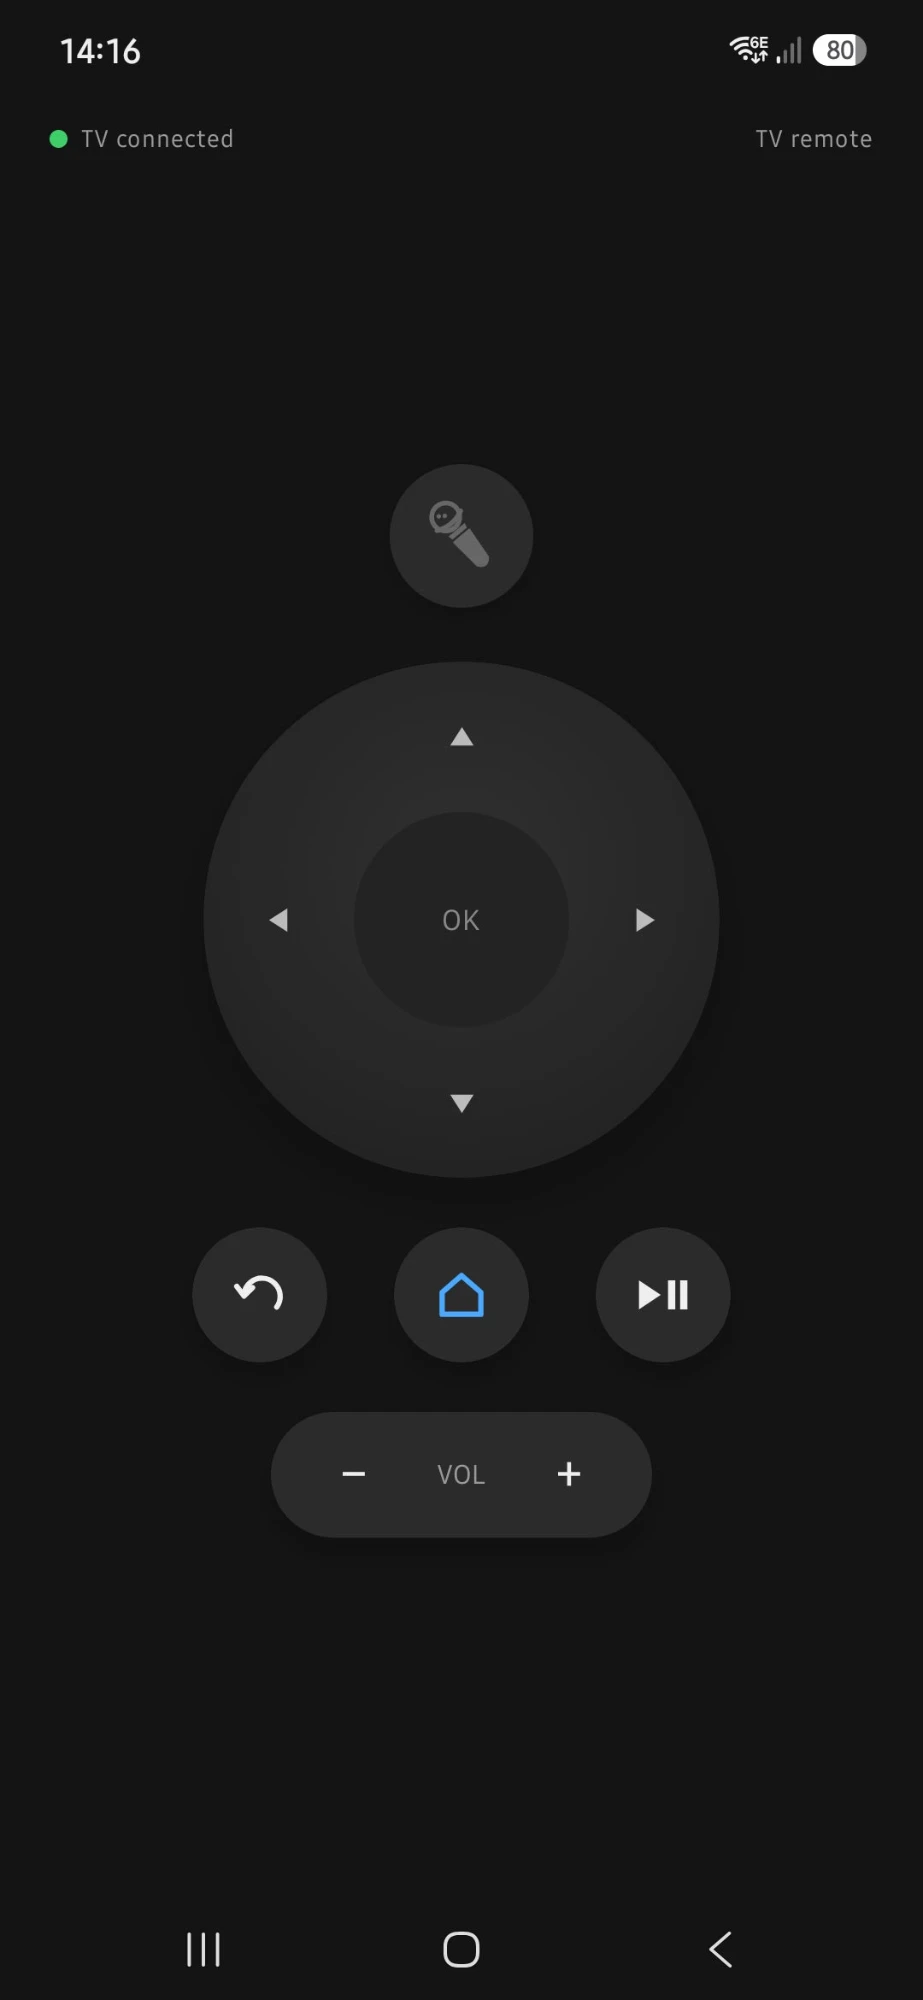
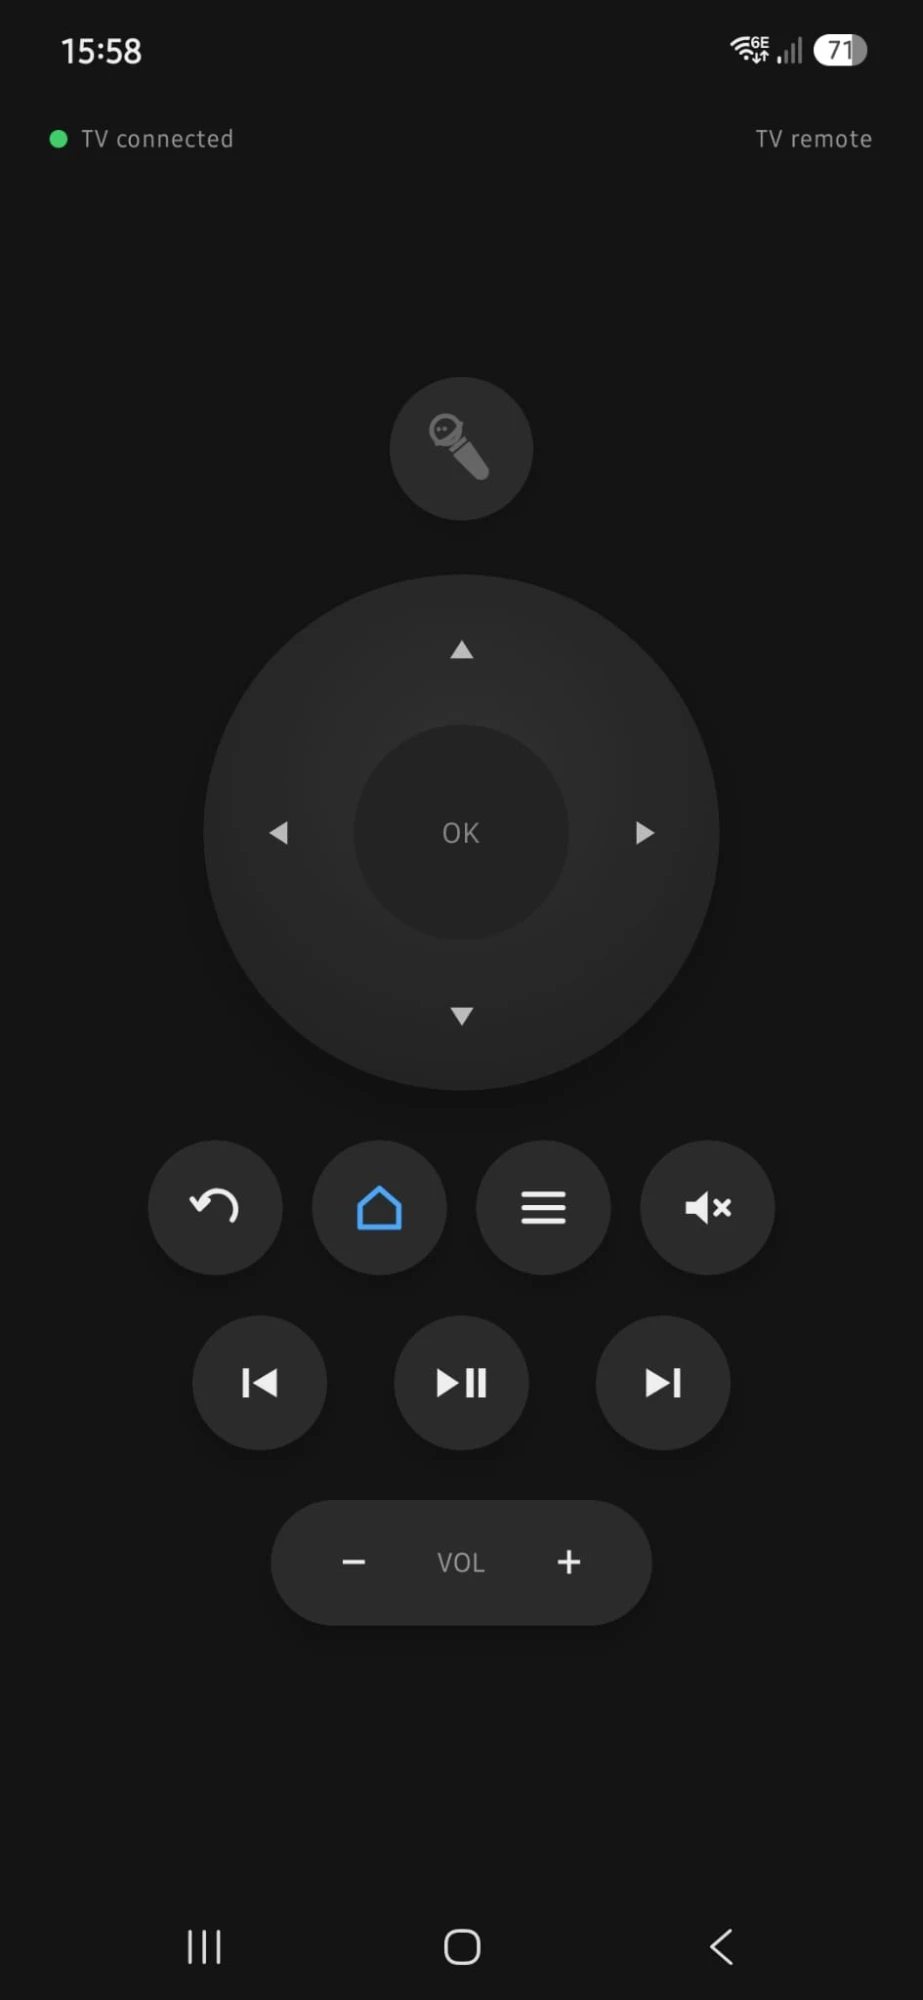
README: the phone remote's new keys and the newer settings
The phone remote screenshot shows its menu, mute, previous and next
keys, and the README lists them. The Rii's table gains the 3-lines key
(the menu of the item in focus), Search (frees the held pointer) and
the forward and backward keys; Back closes Prime Video's player.

The settings table adds MenuKeyVk, ParkPointer, AirMouseDevice,
PointerKeyVk and FrontAtStart, and the per-app NextButton,
PlayerEscape and FocusAfterPlayer. The volume boost covers Disney+,
Netflix and Prime Video, and the status says Netflix and Prime Video
are tested signed in on a development PC but not yet at the TV.

diff --git a/README.md b/README.md
@@ -9,15 +9,16 @@ The project started because the TV's own apps were slow to open and slow to resp
 ## What it does
 
 - **A home screen** in the style of [custom-tv](https://github.com/berteotti/custom-tv): the date, a greeting, the weather, rotating Windows Spotlight photos, and one tile per app.
-- **The apps inside the launcher's own window.** Each runs in its own WebView2 view, with its own sign-in. YouTube shows its TV interface; Disney+, Channel 4's website, Prime Video and Plex are websites in which the launcher moves focus on the remote's arrows, one item at a time. Netflix, Prime Video and Plex are in the configuration but only lightly tested.
-- **Per-app fixes in the configuration,** for example hiding a page element the remote cannot reach (Prime Video's cookie notice).
+- **The apps inside the launcher's own window.** Each runs in its own WebView2 view, with its own sign-in. YouTube shows its TV interface; Disney+, Channel 4's website, Prime Video and Plex are websites in which the launcher moves focus on the remote's arrows, one item at a time. Netflix and Prime Video are newer and not yet checked at the TV; Plex is only lightly tested.
+- **Per-app fixes in the configuration,** for example hiding a page element the remote cannot reach (Prime Video's cookie notice), or pressing a player's own Next Episode button for the remote's next key.
 - **The remote's Home button always returns home.** Leaving an app pauses it through the app's own player, and coming back finds it paused where it was.
-- **Back** walks back through Disney+'s pages and then goes home; inside YouTube it stays in YouTube.
+- **Back** walks back through Disney+'s pages and then goes home; inside YouTube it stays in YouTube; in Prime Video it closes the player and lands on the title's Resume button.
+- **The remote's menu key** opens the menu of the item in focus, such as Prime Video's hover card, and closes it again.
 - **An Apps screen** (the first button in the top row) to put the home row in the order you like, hide an app, or choose between an app's versions (Channel 4 comes as a TV app and as its website, each with its own sign-in). The choices are kept in `%LOCALAPPDATA%\TvLauncher\state.json`.
-- **A Disney+ volume boost** toggled from the home screen, because Disney+ plays much quieter than YouTube.
+- **A volume boost** toggled from the home screen, for the apps that play much quieter than YouTube (Disney+, Netflix and Prime Video).
 - **A glass weather card** (Open-Meteo, no API key, no place name), with a moon drawn by its real phase, and a forecast screen with UV, wind, sun, rainfall, visibility and humidity. The place is picked on screen with the remote, or comes from Windows location.
 - **A phone remote:** an Android app with the same keys as the physical remote, and a microphone for YouTube's voice search.
-- **Windows stays out of sight:** the app tiles wait until Windows HDR is on, the remote's Search and menu keys are swallowed, and restart and shut down ask first.
+- **Windows stays out of sight:** the app tiles wait until Windows HDR is on, the remote's Search and menu keys never reach Windows while the launcher is in front, and restart and shut down ask first.
 
 ## How it works
 
@@ -29,26 +30,28 @@ To pause an app, the launcher reads whether its video is playing and, if so, pre
 
 ### The physical remote
 
-The family's remote is a Rii i25: a 2.4 GHz radio remote with a USB dongle, so it needs no line of sight and Windows sees it as a keyboard. It is used with its air mouse off; with the air mouse on, OK becomes a mouse click and Back a right click.
+The family's remote is a Rii i25: a 2.4 GHz radio remote with a USB dongle, so it needs no line of sight and Windows sees it as a keyboard. It is meant to be used with its air mouse off; with the air mouse on, OK becomes a mouse click and Back a right click. Because the air mouse can come back on by itself, the launcher can hold the pointer on a small spot in the screen's corner while the air mouse moves and treat its clicks as OK and Back (`ParkPointer` with `AirMouseDevice`).
 
 | Button | What the PC receives | What the launcher does |
 |---|---|---|
 | D-pad, OK | The arrow keys, Enter | Moves focus and picks, on the home screen and in the apps |
 | Home | Browser Home (virtual-key 172) | Pauses the app in front and returns to the home screen, from anywhere |
-| Back | Browser Back (166) | Closes an overlay on the home screen; walks back through Disney+'s pages, then goes home; stays inside YouTube |
+| Back | Browser Back (166) | Closes an overlay on the home screen; walks back through Disney+'s pages, then goes home; stays inside YouTube; closes Prime Video's player |
+| The 3-lines key | The menu key (93) | In an app, opens and closes the menu of the item in focus (Prime Video's hover card); kept from Windows on the home screen |
+| Search | Browser Search (170) | Frees the held pointer when a page needs it, and holds it again on the next press or Home; kept from Windows, so its Start menu never opens |
+| Forward, backward | Next and previous track (176, 177) | Left to the app in front: the next and previous video in YouTube; next presses Next Episode in Prime Video |
 | Volume, mute, play/pause | The media keys | Left to Windows and the app in front |
-| Search, the menu key | Browser Search (170), the menu key (93) | Swallowed while the launcher is in front, so Windows' Start menu never opens |
 | Power, Source | Nothing | They are the remote's IR-learnable keys, for the TV and the sound bar |
 
-Windows marks Home, Back and the media keys as injected input; the launcher's low-level hook acts on them anyway. The codes are settings (`HomeKeyVk`, `BackKeyVk`, `SwallowKeyVks`), so another remote can be used by changing `launcher.json`. To find a remote's codes, start the launcher with `--keytest`.
+Windows marks Home, Back and the media keys as injected input; the launcher's low-level hook acts on them anyway. The codes are settings (`HomeKeyVk`, `BackKeyVk`, `MenuKeyVk`, `PointerKeyVk`, `SwallowKeyVks`), so another remote can be used by changing `launcher.json`. To find a remote's codes, start the launcher with `--keytest`.
 
 ### The phone remote
 
 `remote/android` is an Android app (Kotlin and Jetpack Compose, Android 8.0 or later) that turns a phone into a remote for the launcher. There is no iPhone app.
 
-<img src="images/phone-remote.webp" width="280" alt="The phone remote: the status line &quot;TV connected&quot; at the top, the microphone button, a round D-pad with OK in the middle, Back, Home and play/pause below it, and a volume bar at the bottom">
+<img src="images/phone-remote.webp" width="280" alt="The phone remote: the status line &quot;TV connected&quot; at the top, the microphone button, a round D-pad with OK in the middle, a row of Back, Home, menu and mute below it, then previous, play/pause and next, and a volume bar at the bottom">
 
-- **Its keys are the physical remote's, nothing more:** the D-pad and OK, Back, Home, play/pause, and volume down and up. Holding an arrow or a volume key repeats it, after 400 ms and then every 120 ms. The phone gives a short buzz for each press that reached the launcher, and none for one that did not.
+- **Its keys are the physical remote's, nothing more:** the D-pad and OK, Back, Home, the menu key, mute, previous, play/pause, next, and volume down and up. Holding an arrow or a volume key repeats it, after 400 ms and then every 120 ms. The phone gives a short buzz for each press that reached the launcher, and none for one that did not.
 - **The microphone** sends the phone's sound to YouTube's own voice search while YouTube is in front (an app with `"PhoneMic": true`). One phone listens at a time, for at most 15 seconds; the launcher logs each session but never the sound. With any other app in front, the button is greyed out.
 - **Choosing the PC:** a long press on the status line at the top (it reads, for example, "TV connected") opens "Connect to", with the known launchers by name, or an address and port to type. The known launchers come from `remote/android/launchers.properties`: copy `launchers.example.properties` to that name (git ignores it), put in your own launchers' names and addresses, and build. The first is the one the app uses until another is picked. The build also allows unencrypted traffic to those hosts only (and to `127.0.0.1` for testing over USB), so the app cannot reach a launcher missing from the file.
 
@@ -137,10 +140,15 @@ All settings are in `launcher.json`, except the order, visibility and version of
 
 | Setting | Meaning |
 |---|---|
-| `Apps` | One entry per tile: `Id`, `Name`, `Url`, `Icon`, and optionally `UserAgent`, `BrowserArgs`, `BoostGain`, `Back` (`History` or `Page`), `DirectPauseFallback`, `ArrowNav` (the launcher moves focus on the arrow keys, for a site built for a mouse, and slides Swiper carousels at their edge), `HidePlayReady` (the page is told PlayReady is missing, so it uses Widevine), `PauseButton` (the label of the player's pause button, pressed instead of Space), `HideElements` (a CSS selector: what it matches is never shown, for an element the remote cannot reach), `ExitWhenEmpty` (the id of the page's root element: once the app has emptied it, the launcher goes home) and `PhoneMic` (the phone remote's microphone works in this app). An entry can instead carry a `Versions` list of full entries, the first being the default; each version has its own sign-in, and adding a second version to an app that already has one moves its profile and signs it out. Adding a web app is a configuration change. |
+| `Apps` | One entry per tile: `Id`, `Name`, `Url`, `Icon`, and optionally `UserAgent`, `BrowserArgs`, `BoostGain`, `Back` (`History` or `Page`), `DirectPauseFallback`, `ArrowNav` (the launcher moves focus on the arrow keys, for a site built for a mouse, and slides Swiper carousels at their edge), `HidePlayReady` (the page is told PlayReady is missing, so it uses Widevine), `PauseButton` (the label of the player's pause button, pressed instead of Space), `HideElements` (a CSS selector: what it matches is never shown, for an element the remote cannot reach), `ExitWhenEmpty` (the id of the page's root element: once the app has emptied it, the launcher goes home), `NextButton` (the label of the player's next-episode button, pressed for the remote's next key; without it the key reaches the page), `PlayerEscape` (Back in a player laid over the page presses Escape, which closes it, instead of going back in history), `FocusAfterPlayer` (a CSS selector, with `ArrowNav`: the button that takes the focus once the player closes) and `PhoneMic` (the phone remote's microphone works in this app). An entry can instead carry a `Versions` list of full entries, the first being the default; each version has its own sign-in, and adding a second version to an app that already has one moves its profile and signs it out. Adding a web app is a configuration change. |
 | `HomeKeyVk` | The Home key's virtual-key code, or a list of codes (for example `[172, 123]` for a remote's Browser Home and the keyboard's F12) |
 | `BackKeyVk` | The Back key's virtual-key code (166, Browser Back) |
+| `MenuKeyVk` | The menu key's virtual-key code (93 by default), which opens the menu of the item in focus in an app |
 | `SwallowKeyVks` | Keys kept from Windows while the launcher is in front (170 Browser Search, 93 the menu key) |
+| `ParkPointer` | When true, the launcher keeps the mouse pointer on a small spot of its own in the screen's corner, at the start and at each switch. Off by default, since it moves the pointer of a PC used with a mouse |
+| `AirMouseDevice` | Part of the raw input name of the remote's dongle (the Rii i25's is `VID_1997&PID_2433`), with `ParkPointer`: its air mouse is held on the spot and its clicks count as OK and Back |
+| `PointerKeyVk` | The key that frees the held pointer and holds it again (170 by default, the Rii's Search) |
+| `FrontAtStart` | On by default: after it starts, the launcher keeps asking for the front until it has held it, for a boot where Windows refuses the first request. Set it to false on a PC someone works at, so the launcher asks once |
 | `RequireHdr` | When true, the app tiles wait until Windows HDR is on |
 | `Location` | The weather's place, optional (the repository's `launcher.json` has none). A choice made on screen (a place, Windows location, or no weather) wins over it, and it wins over Windows location |
 | `Unit`, `Clock` | The display formats |
@@ -164,7 +172,7 @@ powershell -NoProfile -ExecutionPolicy Bypass -File setup/deploy-launcher.ps1
 
 ## Status
 
-The launcher is deployed on the mini PC and in family use with YouTube, Disney+ and Channel 4. Netflix, Prime Video and Plex are in the configuration and need more testing with accounts.
+The launcher is deployed on the mini PC and in family use with YouTube, Disney+ and Channel 4. Netflix and Prime Video have been tested signed in on a development PC but not yet at the TV; Plex needs more testing.
 
 ## Credits
 
